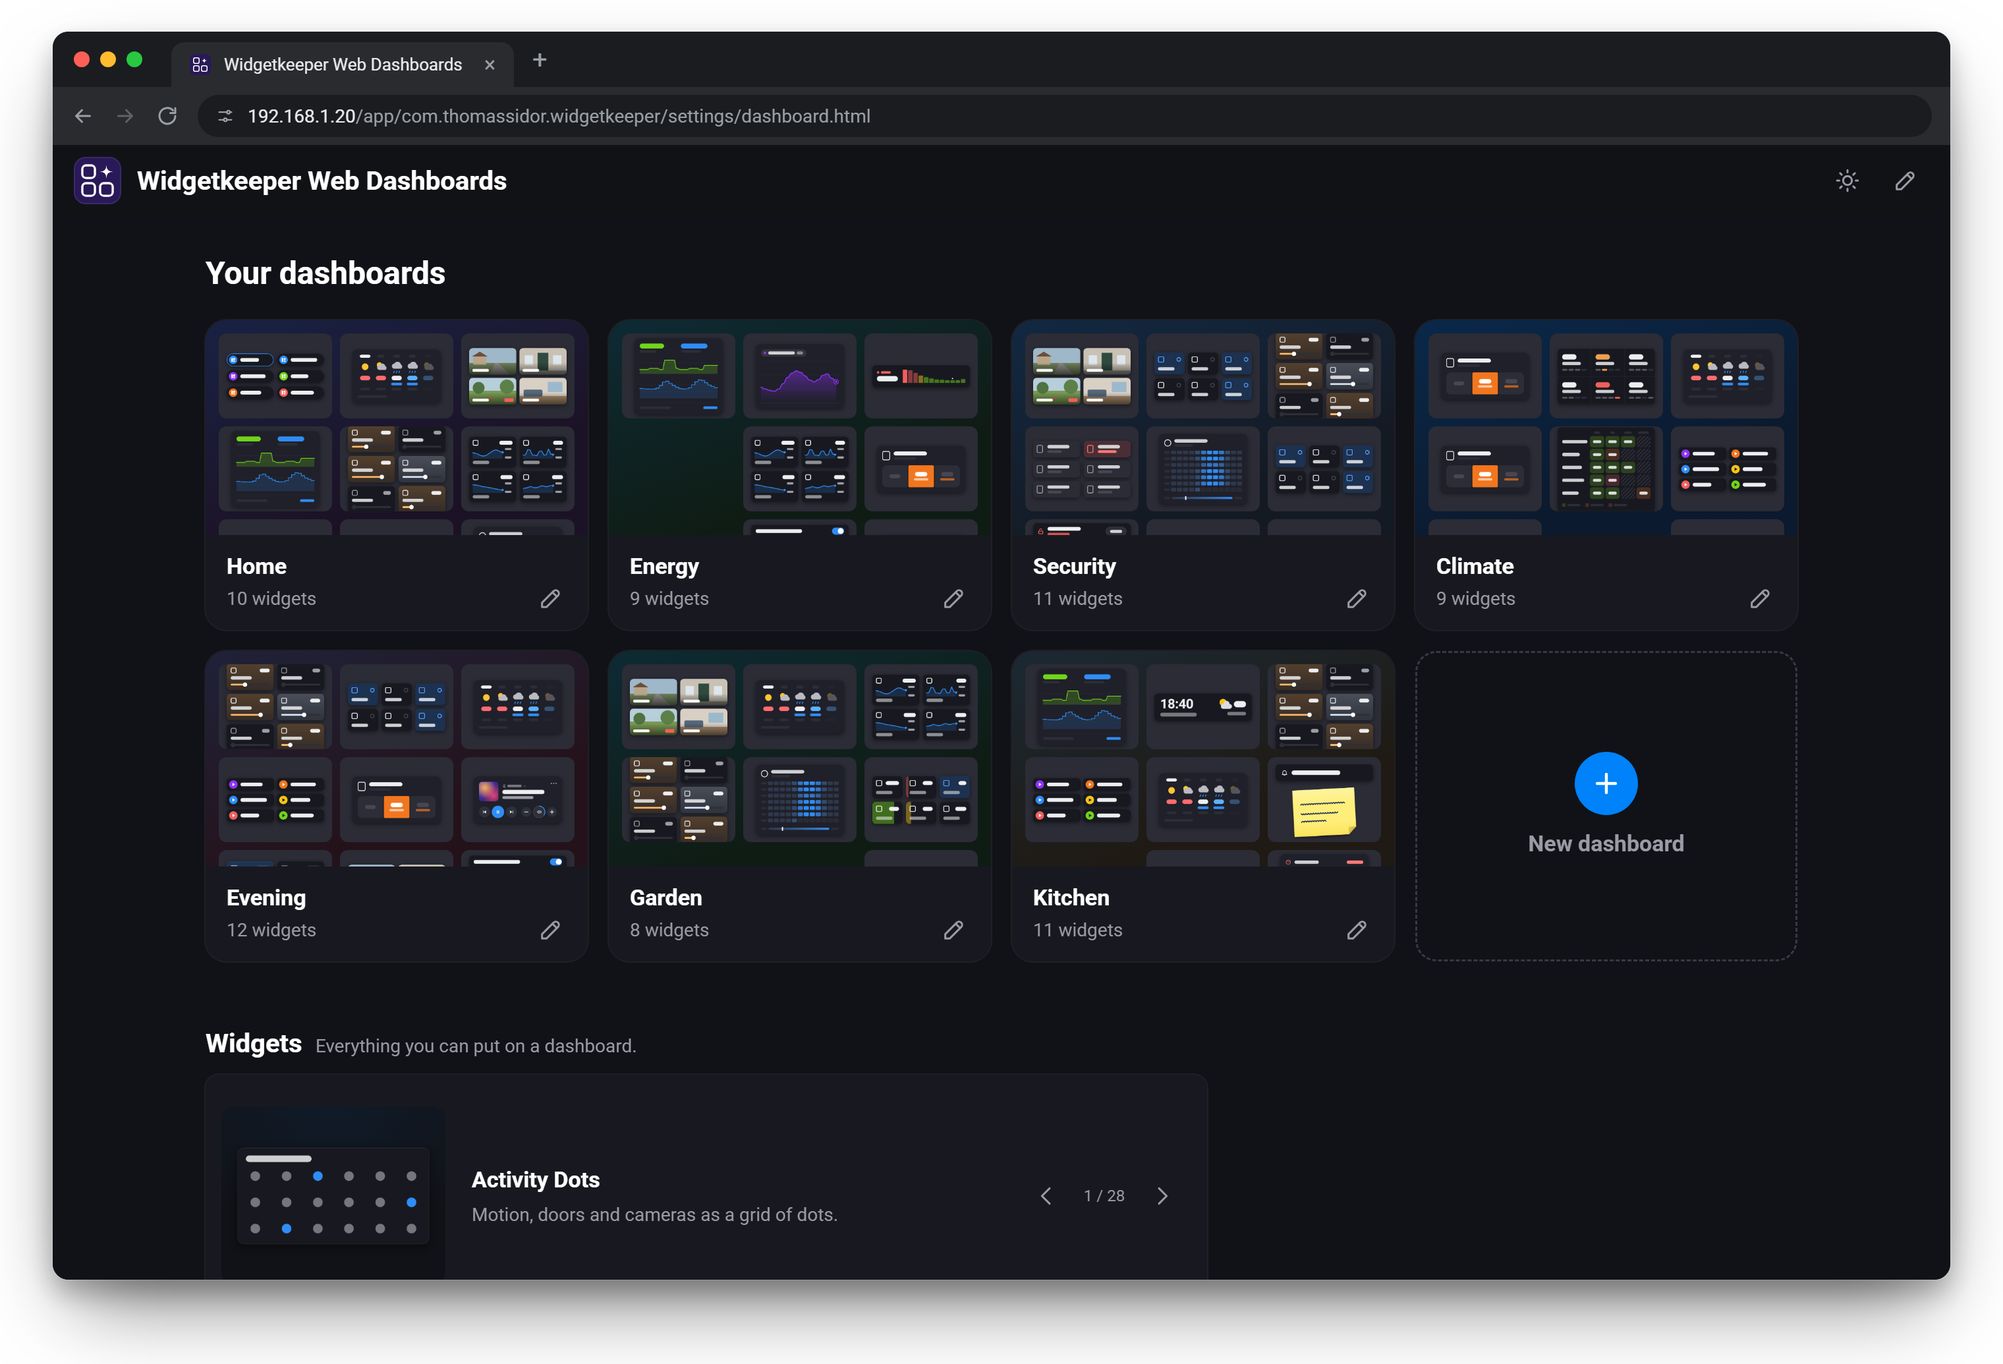
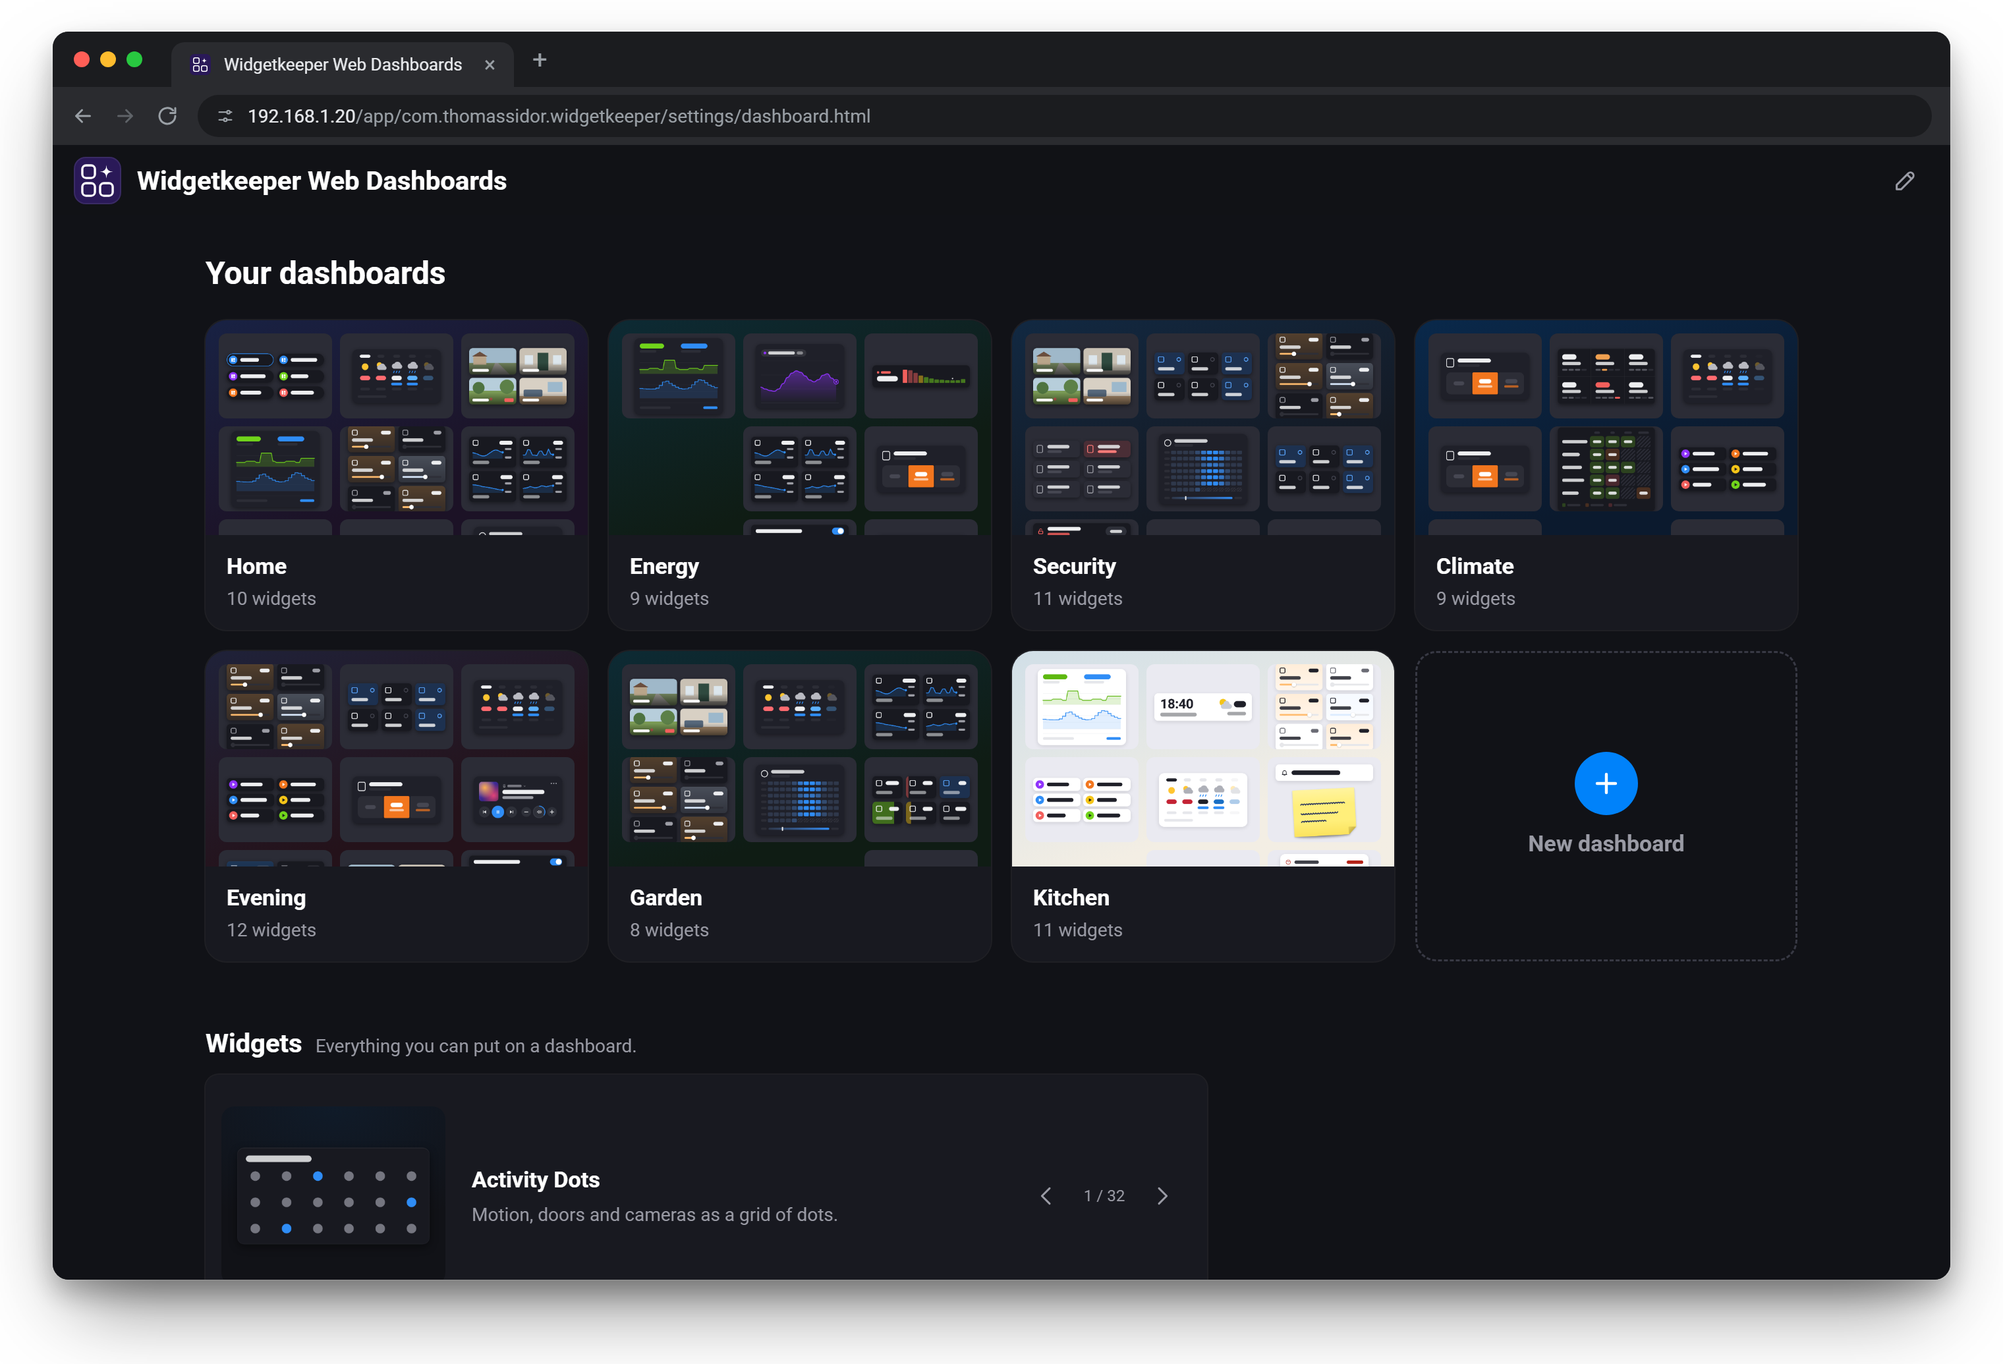
Web dashboards front page: each card in its dashboard's mode
A Dark or Light dashboard's miniature now shows in that mode whatever the page's (its colours, its
backdrop's shade and the widgets' dark or light previews); Automatic ones follow the page, and this
browser's own Dark or light comes first. A system mode change redraws the front page. front.png is
re-rendered (the Kitchen card is light).

Changed region(s): [[0.5, 0.4638, 0.7188, 0.6493]]

diff --git a/settings/dashboard.js b/settings/dashboard.js
@@ -825,15 +825,20 @@
       return theme === 'dark' || (theme !== 'light' && !!(darkQuery && darkQuery.matches));
     }
 
-    function isDark() {
+    /** Whether a dashboard of that theme shows dark in this browser (its own choice first). */
+    function showsDark(theme) {
       const own = ownTheme();
-      return own ? own === 'dark' : themeIsDark(current ? current.dashboard.theme : 'auto');
+      return own ? own === 'dark' : themeIsDark(theme);
     }
 
-    /** A backdrop's colour in the page's mode. */
-    function backdrop(background) {
+    function isDark() {
+      return showsDark(current ? current.dashboard.theme : 'auto');
+    }
+
+    /** A backdrop's colour in the page's mode, or in `dark`'s. */
+    function backdrop(background, dark = isDark()) {
       const pair = BACKGROUNDS[background] || BACKGROUNDS.default;
-      return pair[isDark() ? 1 : 0];
+      return pair[dark ? 1 : 0];
     }
 
     function setFrameHeight(frame, height) {
@@ -1043,6 +1048,8 @@
     if (darkQuery && darkQuery.addEventListener) {
       darkQuery.addEventListener('change', () => {
         if (ownTheme() || (current && current.dashboard.theme !== 'auto')) return;
+        // The front page: its cards of Automatic dashboards change mode too.
+        if (root.querySelector(':scope > .wd-home')) { route(); return; }
         applyTheme(current ? current.dashboard.theme : 'auto');
         reloadFrames(); // a frame's dark mode is set when it starts
       });
@@ -1180,9 +1187,9 @@
     }
 
     /** A widget type's own preview (as Homey's widget picker shows it), served beside its files, in the page's theme. */
-    function preview(type, className) {
+    function preview(type, className, dark = isDark()) {
       const img = el('img', className);
-      img.src = `${widgetFolder(type)}/preview-${isDark() ? 'dark' : 'light'}.png`;
+      img.src = `${widgetFolder(type)}/preview-${dark ? 'dark' : 'light'}.png`;
       img.alt = '';
       img.loading = 'lazy';
       img.decoding = 'async';
@@ -1676,12 +1683,14 @@
     function dashboardCard(d, editing = false) {
       const card = el('div', 'wd-dash');
       card.dataset.id = d.id;
-      const art = el('div', 'wd-dash-art');
-      if (d.background && d.background !== 'default') art.style.setProperty('--wd-bg', backdrop(d.background));
+      // The miniature in the mode the dashboard shows in (a Dark one on a light page too), the page's for Automatic.
+      const dark = showsDark(d.theme);
+      const art = el('div', `wd-dash-art ${dark ? 'dark' : 'light'}`);
+      if (d.background && d.background !== 'default') art.style.setProperty('--wd-bg', backdrop(d.background, dark));
       const columns = d.columns.length ? d.columns : [[]];
       for (const column of columns) {
         const col = el('div', 'wd-dash-col');
-        for (const w of column.slice(0, 3)) col.append(preview(w.type, 'wd-dash-thumb'));
+        for (const w of column.slice(0, 3)) col.append(preview(w.type, 'wd-dash-thumb', dark));
         if (!column.length) col.append(el('span', 'wd-dash-thumb empty'));
         art.append(col);
       }

diff --git a/settings/dashboard.css b/settings/dashboard.css
@@ -158,6 +158,10 @@ textarea.wd-input { width: 100%; resize: vertical; }
   display: flex; gap: 6px; aspect-ratio: 16 / 9; padding: 10px; overflow: hidden; box-sizing: border-box;
   background: linear-gradient(160deg, color-mix(in srgb, var(--wd-accent) 14%, var(--wd-bg)), var(--wd-bg) 70%);
 }
+/* A miniature in its dashboard's mode, whatever the page's: the dashboard's own colours (the fallbacks: Homey's
+   tokens follow the page). */
+.wd-dash-art.light { --wd-bg: #F4F4FA; --wd-raised: #EAEAF1; --wd-line: #DADAE2; }
+.wd-dash-art.dark { --wd-bg: #111217; --wd-raised: #2B2C36; --wd-line: #383944; }
 .wd-dash-col { flex: 1 1 0; min-width: 0; display: flex; flex-direction: column; gap: 6px; }
 .wd-dash-thumb { display: block; width: 100%; aspect-ratio: 4 / 3; object-fit: cover; border-radius: 6px; flex: none; background: var(--wd-raised); }
 .wd-dash-thumb.empty { background: transparent; outline: 1px dashed var(--wd-line); outline-offset: -1px; }

diff --git a/.claude/rules/web-dashboards.md b/.claude/rules/web-dashboards.md
@@ -22,7 +22,7 @@ paths:
 - **Remote access** (the user's request, 2026-10-21; 1.0.2): Homey's cloud relay `https://<homeyId>.connect.athom.com` (what my.homey.app and homey-api's `cloud` strategy use) serves the page, the widgets' `index.html` with the SDK injected and `/widgets/js/homey.widgets.js` without login (200), relays `/api/app/…` to the Homey (no key: 401 `Missing Session` from `homey-local`) and upgrades the socket (`/socket.io/?EIO=3&transport=websocket`: 101); all checked with curl 2026-10-21. The page builds every URL from `location.origin`, so it runs there unchanged. Not inside my.homey.app: its settings frame is sandboxed without same-origin, so `localStorage` throws. `GET /web/address` answers `{url, remoteUrl}` (the latter from `homey.cloud.getHomeyId()`; the SDK has no getter for it). The app setting `webRemoteAccess` (**Remote access**, a checkbox under the address, off unless `true`; the away address shows only while on) gates it, but **Homey doesn't tell a route which address a request came in on**, so the page says so itself: on a `*.connect.athom.com` host (`AWAY`) `request()` adds `away=1`, and `assertEnabled(away)` throws `Web dashboards are turned off away from home` (the page's `/turned off/` handling), `/web/setup` answers `{disabled: true, away: true}` (`web.offAway`). A key holder who leaves `away` out gets through, as they could reach Homey's own API through the relay anyway: the key is what guards it. Diagnostics' `web.remote`.
   - **Security review** (the user's request, 2026-10-23, of remote access): fixed then were the stored key in app settings (readable with `homey.app.control`) and a password any key holder could remove (both above). Open, recorded here: (1) the stored-key routes (Flow Buttons `/trigger`, Variables and Variable Presets `/set`, Lights `/mood`, Media `/button`, Stack `/pages` and `/call`) are also Homey widget routes, `/api/app/<appId>/widget/<id>/api/<path>`, which skip `/web/call`'s `pageKeyProblem()`, and they act on any id (any flow, any variable), so whoever may call the app borrows the stored key; a Zones-only key (`homey.zone`) got `403 Missing Scopes` on the app's routes, a widget route and the app settings alike (`scripts/scope-check.mjs`, read-only: a key in `HOMEY_TOKEN`, `HOMEY_ADDRESS`; 2026-10-23), and an Apps → Control key (`homey.app.control`) got 200 on the app's routes and the app settings (no secrets among them since 1.1.0; before, it could read `variablesApiKey`) but still `403 Missing Scopes` on the widget route. So only a full-access key (`homey`) seems to reach the widget routes, and it may start flows and set variables itself: borrowing the stored key gains it nothing, so the routes stay as they are. `/web/call` is an app route, but its `pageKeyProblem()` holds; (2) Remote access off only stops the page (`away=1`), not the key; (3) the key and session sit in `localStorage` on an origin every installed app's pages share (`http://<ip>` and the relay), so another app's page opened in that browser, a trusted widget or a Web Page widget given an address on the Homey itself can read them; (4) the login lock is global, and `?session=` is in the URL (the relay sees it).
 - Storage: the app setting `webDashboards`, `[{id, name, theme: auto|dark|light, background, columns: [[{id, type, title, settings, deviceIds, trusted?, span?, at?}]]}]` (`span`/`at`: wide widgets, below). `normalize()` keeps known types and only the manifest's setting ids (the default where missing or wrong; an autocomplete choice keeps its own fields, e.g. the thermostat's `capabilityId`/`value`, without `image`), one device for a singular devices setting; 1–6 columns, 60 widgets, 64 dashboards (30 until 2026-10-19; 29 of them were ~145 KB stored).
-- The front page (`#/`, a user's request for something prettier): `Widgetkeeper Web Dashboards` (`brand()`) after the app icon (`LOGO`, white on `#2A1958`; also the inline SVG favicon, a user's request), the dashboards as cards (`dashboardCard()`: a miniature of the columns from the widgets' previews; the card opens it; its pen is in edit mode only, the user's request, 2026-10-23), a New dashboard card, then the widget types one at a time in a small, quiet carousel (`widgetCarousel()`: the preview, the name, `web.about.<type>` (all 13 languages, tested; also in Add widget), ‹ ›). A user found an earlier row of large previews took the attention from the dashboards, then a 90 px one too small. It cross-fades every 6 s, but not while hovered or focused, for 15 s after a tap, while hidden, or with reduced motion.
+- The front page (`#/`, a user's request for something prettier): `Widgetkeeper Web Dashboards` (`brand()`) after the app icon (`LOGO`, white on `#2A1958`; also the inline SVG favicon, a user's request), the dashboards as cards (`dashboardCard()`: a miniature of the columns from the widgets' previews, in the mode the dashboard shows in this browser (`showsDark(theme)`: Dark and Light ones as such, Automatic the page's; the user's request, 2026-10-23; `.wd-dash-art.dark|light` set the colours, and a system change redraws the front page); the card opens it; its pen is in edit mode only, the user's request, 2026-10-23), a New dashboard card, then the widget types one at a time in a small, quiet carousel (`widgetCarousel()`: the preview, the name, `web.about.<type>` (all 13 languages, tested; also in Add widget), ‹ ›). A user found an earlier row of large previews took the attention from the dashboards, then a 90 px one too small. It cross-fades every 6 s, but not while hovered or focused, for 15 s after a tap, while hidden, or with reduced motion.
   - Its edit mode (`#/edit`, a pen in its bar; a user's request, 2026-10-19, to put Forget the key out of the way): Settings (`pageSettings()`, the user's request 2026-10-20: a `dialog()` with the backup, then This browser with Dark or light, Keep screen on, Dim and Forget the key; icon `sliders`, its label hidden below 480 px) and Done in the bar, no New dashboard card; the cards are dragged into order (`arrangeCards()`: pointer events with the capture on the grid, as the card itself moves; the others make room at once; arrow keys move a focused card; Escape puts them back) each with a grip and a pen (`.wd-dash-edit`, the dashboard's editor; `arrangeCards()`'s `pointerdown` skips it like a button, `a[href]`: the card's own link has no href here); the carousel's head has a switch, Show on the front page (faded while off; gone from the front page). Both go to `PUT /web/front {order?, widgets?}` (`saveFront()`, queued with the dashboards' saves): `saveFront()` in `lib/WebDashboardService.ts` reorders the stored list (ids it doesn't name keep their order after the named ones) and keeps the app setting `webFront` `{widgets}`; `/web/setup` has `front`. On the Homey, so every browser sees the same front page.
   - Duplicate (the user's request for 1.0.1, 2026-10-20; in edit mode, their choice): a copy button (`.wd-dash-copy`, icon `copy`) beside each card's grip, disabled at 64 (`MAX_DASHBOARDS`, the page's copy). `arrangeCards()`'s `pointerdown` skips a `button`, or the grid's capture takes its click. It queues `POST /web/dashboards/<id>/copy` on `saving`; `duplicate()` in `lib/WebDashboardService.ts` puts the copy **right after the original**, named `web.copyName` (`__name__ (copy)`), with a new dashboard id but the same widget ids (unique per dashboard only), so `tileNames.copy()` gives each `web-<new>-<w>` the names of `web-<old>-<w>`. Running timers (also per instance) stay with the original. The page re-renders edit mode and focuses the copy, ringed for a moment (`.fresh`, none with reduced motion). Checked in headless Edge on `dev/web-preview.html` (a real mouse click, 1280 and 390 px); not yet on the Homey.
   - Delete (the user's request, 2026-10-20): a bin (`.wd-dash-delete`, icon `trash`) beside Duplicate, a `confirmButton()` given an icon (it then keeps the icon and only turns `armed`, solid red, with `tapAgain` as its label); `deleteDashboard(id, done)` is the editor's Delete dashboard too.

diff --git a/.claude/rules/renders.md b/.claude/rules/renders.md
@@ -17,7 +17,7 @@ paths:
   - A clip is steps in `CLIPS`: `say` (with `icon`), `wait`, `tap`/`drag` (a selector, the match's index `i`, points as fractions of its box), `type` (`Input.insertText` a key at a time, then Enter), `run` (a control on `window.clip`, e.g. `doorbell`), `probe` (prints a page value). It may return `width` (the stack: a backdrop so its large dots read on GitHub's light page) or `grow` (Media: recorded tall, cropped with `sharp().trim()`).
   - Rendered at 1x (touch moves 1:1), screenshots at 2x (`clip.scale`). Headless Edge scrolls a native scroller only half as far as dispatched touch moves (2026-10-10), so the stack's swipe runs on past the edge; `Input.synthesizeScrollGesture` didn't scroll at all.
 - `npm run showcase [-- home energy …]`: `docs/showcase/<id>.png` from `dev/showcase.html?d=<id>`: three columns of real widgets on Homey's dark dashboard on a drawn 16:10 tablet (1280 × 800), 2x. The README's top image is `home.png`, its Dashboard examples all seven. The data is a made-up house, "Solbakken", on Tuesday 6 October 2026 at 18:40 (`dev/showcase-data.js`; `dev/fixed-clock.js` replaces `Date`, for the screenshots and clips too). A dashboard is `SHOWCASE[id] = {title, colorStyle?, columns: [[{type, …}]]}`; `MOUNT` creates each type, and `colorStyle: 'deep'` gives every widget Vivid (Security and Climate, 2026-10-19; the entries stay as they are, so `findWidget()` users keep Muted), and `theme: 'light'` light mode (Garden, the user's ask: `light-mode` in place of `homey-dark-mode` on html, Homey's light dashboard `#F4F4FA`, white cards and the light tokens). Climate has Room Health, Value Matrix and Variable Presets, Energy an overlaid Charts, the Kitchen Days Since; the README screenshots take Room Health and Value Matrix from there. `findWidget(type, n)` counts in dashboard order, so adding or removing a widget of a type before another page's `n` changes that page. The script warns when a column runs off the screen. The cameras show `dev/cameras/<id>.webp` (AI-generated snapshots of the made-up house); the dev previews keep the drawn scenes of `dev/mock-cameras.js`.
-- `npm run web-showcase [-- dashboard front editor wide]`: `docs/web/<view>.png` from `dev/web-showcase.html?v=<view>[&d=<id>]`: the real `settings/dashboard.js` in a drawn desktop browser with the showcase's dashboards, the widgets mounted in place of the iframes (`mountWebDashboards(root, {mountWidget})`; only the dev page passes it). Each dashboard has a backdrop (`BACKGROUND`), and web Home's first column has Dashboard Shortcuts in place of the heat pump. The `light` view is the Kitchen (`LIGHT_BOARD`, a light dashboard on Sand; the front page's miniatures follow the page's theme, so its card stays dark) in a light browser. The page fetches `/app.json` and the locales, which `file://` can't, so the script serves the repo root from a child process (`edge()` blocks).
+- `npm run web-showcase [-- dashboard front editor wide]`: `docs/web/<view>.png` from `dev/web-showcase.html?v=<view>[&d=<id>]`: the real `settings/dashboard.js` in a drawn desktop browser with the showcase's dashboards, the widgets mounted in place of the iframes (`mountWebDashboards(root, {mountWidget})`; only the dev page passes it). Each dashboard has a backdrop (`BACKGROUND`), and web Home's first column has Dashboard Shortcuts in place of the heat pump. The `light` view is the Kitchen (`LIGHT_BOARD`, a light dashboard on Sand, so its card on the front page is light) in a light browser. The page fetches `/app.json` and the locales, which `file://` can't, so the script serves the repo root from a child process (`edge()` blocks).
 - `npm run forum-images`: `docs/forum/<showcase|web>-<id>.jpg` for the Homey Community post: the transparent showcase and web PNGs on the App Store images' brand background (`background()` from `scripts/app-images.mjs`), 1380 px wide (2x the post's 690), JPEG 88. Discourse turns a large transparent PNG into a JPEG on white, which showed the first post's tablet in a white box (2026-10-19). Run it after `showcase` and `web-showcase`.
 - `npm run whats-new`: the 1.0.0 poster `docs/whats-new-1.0.0.png` from `dev/whats-new.html` (needs `docs/web/settings.png`). Opaque, so it goes in the forum as it is.
 - `npm run whats-next`: the 1.1.0 teaser `docs/whats-next-1.1.0.png` from `dev/whats-next.html`, in the 1.0.0 poster's look: the real Pollen and UV, Lights by Room (the dev page's drawn zone icons), Web Page and Charts (Today, the showcase's day) widgets, an And also list, the real Popups prompt page in a drawn phone (the hallway camera's made-up picture, `dev/cameras/door.webp`) with a question and a message, its Flow cards drawn, the Popups widget's row, and the wide widgets (`docs/web/wide.png`, `npm run web-showcase -- wide`: Energy with its chart across two columns). The page fetches the picture, so the script serves the repo root with `render-web-showcase.mjs --serve`. Opaque, like the 1.0.0 one.
